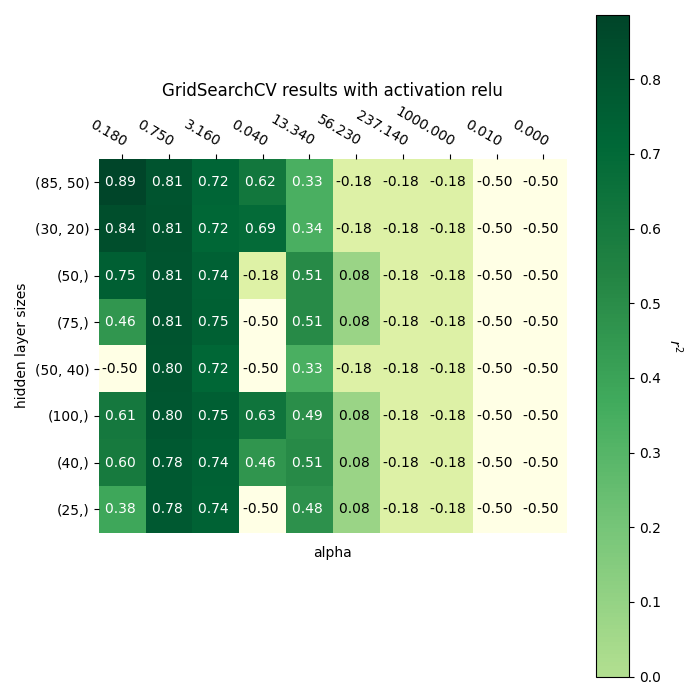
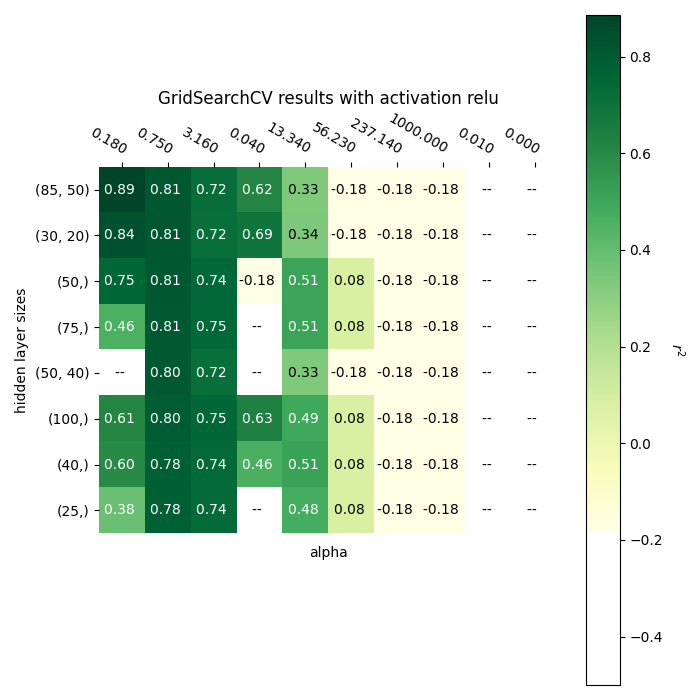
heatmap update with none values for very small r^2 values

diff --git a/part2/model_selection.py b/part2/model_selection.py
@@ -37,32 +37,32 @@ if deneme:
 else:
     results_GridSearch =  pd.DataFrame(pd.read_excel(f"tables-2/GridCV_{part}_{scale_samples}.xlsx", header=0, sheet_name="Search Results"))
 
-def take_hiddens_comp(base_alpha=0,activation="tanh"):
+# def take_hiddens_comp(base_alpha=0,activation="tanh"):
 
-    hidden_layer_comp_df = results_GridSearch.loc[((results_GridSearch["activation"] ==activation)), [f"mean_test_{refit}", f"std_test_{refit}", "hidden_layer_sizes","param_targetTransform__regressor__alpha",  f"mean_train_{refit}", f"std_train_{refit}"]]
-    hidden_layer_comp_df["max_test_score"] = results_GridSearch.loc[( (results_GridSearch["activation"] ==activation))][[f"split{i}_test_{refit}" for i in range(CV_splitNumber)]].values.max(axis=1)
-    hidden_layer_comp_df["max_train_score"] = results_GridSearch.loc[( (results_GridSearch["activation"] ==activation))][[f"split{i}_train_{refit}" for i in range(CV_splitNumber)]].values.max(axis=1)
-    # hidden_layer_comp_df = hidden_layer_comp_df.sort_values(by=f"mean_test_{refit}", ascending=False).drop_duplicates(subset="hidden_layer_sizes", keep="first")
-    hidden_layer_comp_df = hidden_layer_comp_df.sort_values(by=f"mean_test_{refit}", ascending=False)
-    return hidden_layer_comp_df
-
-
-def take_alphas_comp(base_hidden_layer="(40,)",activation="tanh"):
+#     hidden_layer_comp_df = results_GridSearch.loc[((results_GridSearch["activation"] ==activation)), [f"mean_test_{refit}", f"std_test_{refit}", "hidden_layer_sizes","param_targetTransform__regressor__alpha",  f"mean_train_{refit}", f"std_train_{refit}"]]
+#     hidden_layer_comp_df["max_test_score"] = results_GridSearch.loc[( (results_GridSearch["activation"] ==activation))][[f"split{i}_test_{refit}" for i in range(CV_splitNumber)]].values.max(axis=1)
+#     hidden_layer_comp_df["max_train_score"] = results_GridSearch.loc[( (results_GridSearch["activation"] ==activation))][[f"split{i}_train_{refit}" for i in range(CV_splitNumber)]].values.max(axis=1)
+#     # hidden_layer_comp_df = hidden_layer_comp_df.sort_values(by=f"mean_test_{refit}", ascending=False).drop_duplicates(subset="hidden_layer_sizes", keep="first")
+#     hidden_layer_comp_df = hidden_layer_comp_df.sort_values(by=f"mean_test_{refit}", ascending=False)
+#     return hidden_layer_comp_df
 
 
-    alpha_comp_df = results_GridSearch.loc[((results_GridSearch["hidden_layer_sizes"] == base_hidden_layer) & (results_GridSearch["activation"] == activation)), [f"mean_test_{refit}", f"std_test_{refit}", "param_targetTransform__regressor__alpha", f"mean_train_{refit}", f"std_train_{refit}"]]
-    alpha_comp_df = alpha_comp_df.rename({"param_targetTransform__regressor__alpha":"alpha"}, axis="columns")
-    alpha_comp_df["max_test_score"] = results_GridSearch.loc[((results_GridSearch["hidden_layer_sizes"] == base_hidden_layer) & (results_GridSearch["activation"] == activation))][[f"split{i}_test_{refit}" for i in range(CV_splitNumber)]].values.max(axis=1)
-    alpha_comp_df["max_train_score"] = results_GridSearch.loc[((results_GridSearch["hidden_layer_sizes"] == base_hidden_layer) & (results_GridSearch["activation"] == activation))][[f"split{i}_train_{refit}" for i in range(CV_splitNumber)]].values.max(axis=1)
-    alpha_comp_df = alpha_comp_df.sort_values(by=f"mean_test_{refit}", ascending=False)
-    # alpha_comp_df = alpha_comp_df.sort_values(by=f"mean_test_{refit}", ascending=False).drop_duplicates(subset="alpha", keep="first")
-    return alpha_comp_df
+# def take_alphas_comp(base_hidden_layer="(40,)",activation="tanh"):
 
-hidden_layer_comp_df = take_hiddens_comp(activation=activation, base_alpha=base_alpha)
-alpha_comp_df = take_alphas_comp(activation=activation, base_hidden_layer=base_hidden_layer)
 
-hidden_layer_comp_df.to_excel(f"tables-2/metrics_eval_{part}_{scale_samples}_hidden.xlsx", index= False, header= True, sheet_name="hidden_layer", float_format="%.6f")
-alpha_comp_df.to_excel(f"tables-2/metrics_eval_{part}_{scale_samples}_alphas.xlsx", index= False, header= True, sheet_name="alpha", float_format="%.6f")
+#     alpha_comp_df = results_GridSearch.loc[((results_GridSearch["hidden_layer_sizes"] == base_hidden_layer) & (results_GridSearch["activation"] == activation)), [f"mean_test_{refit}", f"std_test_{refit}", "param_targetTransform__regressor__alpha", f"mean_train_{refit}", f"std_train_{refit}"]]
+#     alpha_comp_df = alpha_comp_df.rename({"param_targetTransform__regressor__alpha":"alpha"}, axis="columns")
+#     alpha_comp_df["max_test_score"] = results_GridSearch.loc[((results_GridSearch["hidden_layer_sizes"] == base_hidden_layer) & (results_GridSearch["activation"] == activation))][[f"split{i}_test_{refit}" for i in range(CV_splitNumber)]].values.max(axis=1)
+#     alpha_comp_df["max_train_score"] = results_GridSearch.loc[((results_GridSearch["hidden_layer_sizes"] == base_hidden_layer) & (results_GridSearch["activation"] == activation))][[f"split{i}_train_{refit}" for i in range(CV_splitNumber)]].values.max(axis=1)
+#     alpha_comp_df = alpha_comp_df.sort_values(by=f"mean_test_{refit}", ascending=False)
+#     # alpha_comp_df = alpha_comp_df.sort_values(by=f"mean_test_{refit}", ascending=False).drop_duplicates(subset="alpha", keep="first")
+#     return alpha_comp_df
+
+# hidden_layer_comp_df = take_hiddens_comp(activation=activation, base_alpha=base_alpha)
+# alpha_comp_df = take_alphas_comp(activation=activation, base_hidden_layer=base_hidden_layer)
+
+# hidden_layer_comp_df.to_excel(f"tables-2/metrics_eval_{part}_{scale_samples}_hidden.xlsx", index= False, header= True, sheet_name="hidden_layer", float_format="%.6f")
+# alpha_comp_df.to_excel(f"tables-2/metrics_eval_{part}_{scale_samples}_alphas.xlsx", index= False, header= True, sheet_name="alpha", float_format="%.6f")
 
 
 # #################################################
@@ -80,7 +80,7 @@ data_tanh, alphas, hidden_layers = create_heatmap_data(results_GridSearch, activ
 alphas = [f"{alpha:3.3f}" for alpha in alphas]
 hidden_layers = [f"{hidden_layer}" for hidden_layer in hidden_layers]
 
-data_tanh[data_tanh<-0.5] = -0.5
+data_tanh[data_tanh<-0.5] = None
 
 im, cbar = heatmap(data_tanh, hidden_layers, alphas, ax=axgridCvTanh,
                    cmap="YlGn", cbarlabel="$r^2$")
@@ -103,7 +103,7 @@ data_relu, alphas, hidden_layers = create_heatmap_data(results_GridSearch, activ
 alphas = [f"{alpha:3.3f}" for alpha in alphas]
 hidden_layers = [f"{hidden_layer}" for hidden_layer in hidden_layers]
 
-data_relu[data_relu<-0.5] = -0.5
+data_relu[data_relu<-0.5] = None
 
 im, cbar = heatmap(data_relu, hidden_layers, alphas, ax=axgridCvRelu,
                    cmap="YlGn", cbarlabel="$r^2$")
